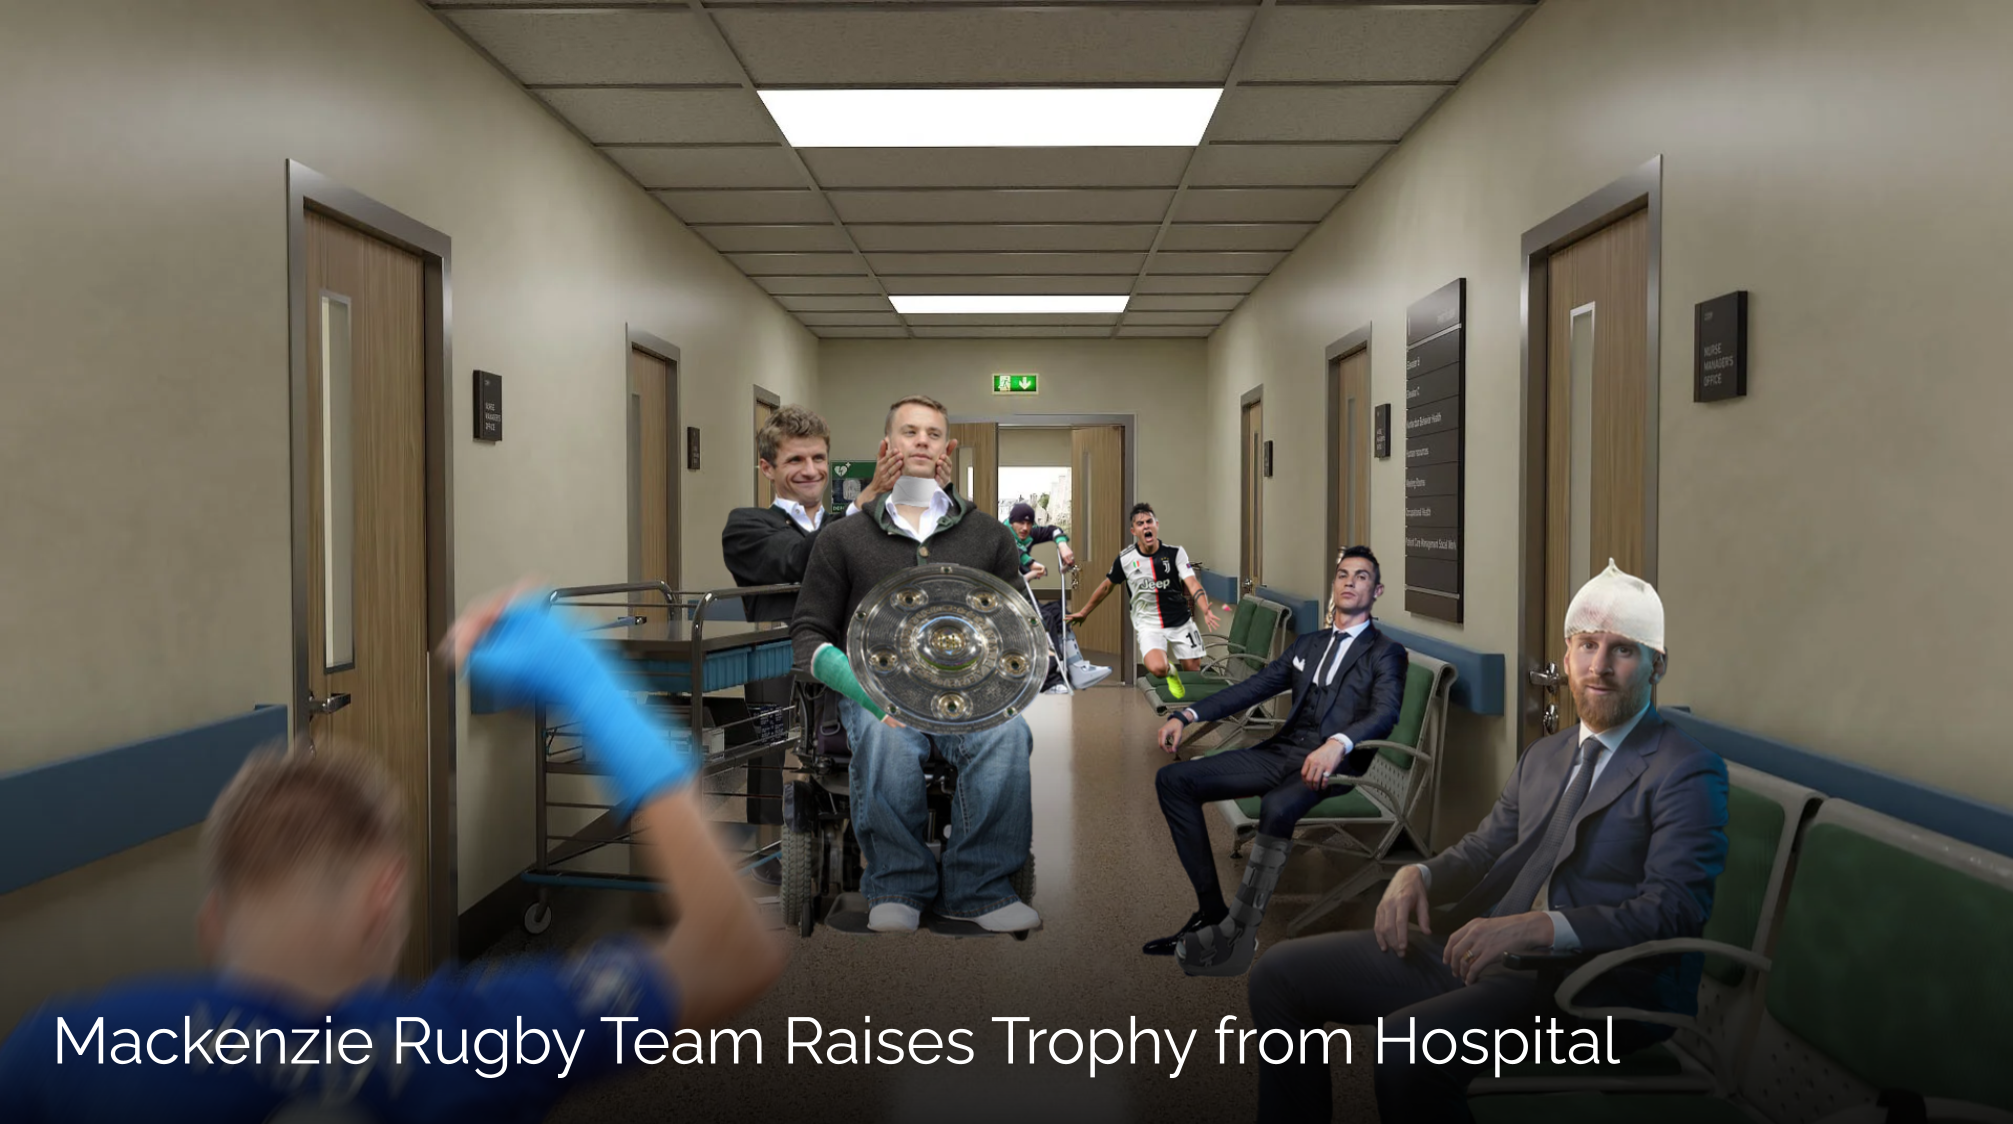
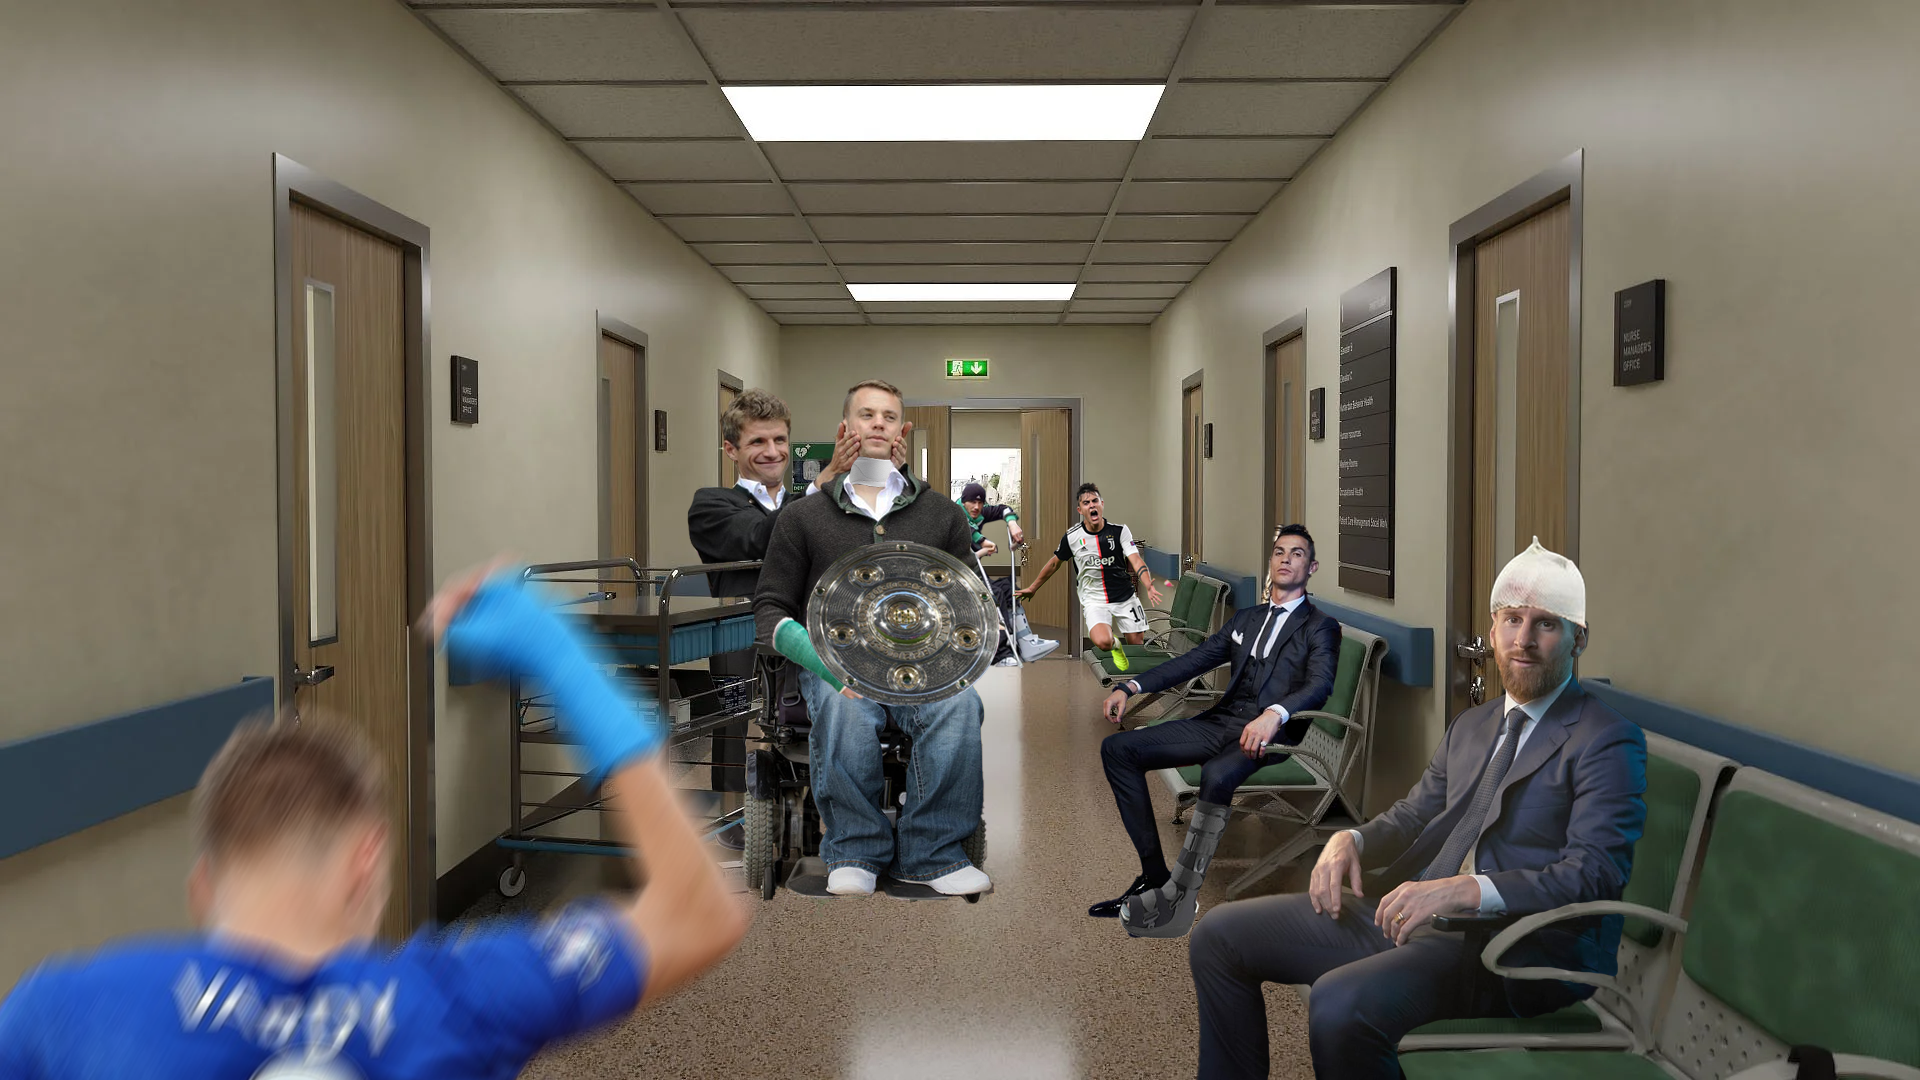
Fix carousel on mobile

diff --git a/_sass/carousel.scss b/_sass/carousel.scss
@@ -2,49 +2,57 @@
   margin: auto;
   position: relative;
 
-  &__prev, &__next {
+  &__prev,
+  &__next {
+    --size: 1rem;
     position: absolute;
     top: 50%;
     transform: translateY(-50%);
     border-radius: 50%;
-    width: 4rem;
-    height: 4rem;
+    width: calc(4 * var(--size));
+    height: calc(4 * var(--size));
     background-color: #193536;
     font-size: 0;
     display: flex;
     justify-content: center;
     align-items: center;
+    z-index: 2;
+
+    @media only screen and (max-width: 600px) {
+      --size: 0.5rem;
+    }
   }
 
   &__prev {
-    left: -2rem;
+    left: calc(-2 * var(--size));
 
     &::before {
       content: "";
       transform: translateX(-30%);
-      border-right: 1.5rem solid white;
-      border-left: 1.5rem solid transparent;
-      border-top: 1rem solid transparent;
-      border-bottom: 1rem solid transparent;
+      border-right: calc(1.5 * var(--size)) solid white;
+      border-left: calc(1.5 * var(--size)) solid transparent;
+      border-top: var(--size) solid transparent;
+      border-bottom: var(--size) solid transparent;
     }
   }
 
   &__next {
-    right: -2rem;
+    right: calc(-2 * var(--size));
 
     &::before {
       content: "";
       transform: translateX(30%);
-      border-left: 1.5rem solid white;
-      border-right: 1.5rem solid transparent;
-      border-top: 1rem solid transparent;
-      border-bottom: 1rem solid transparent;
+      border-left: calc(1.5 * var(--size)) solid white;
+      border-right: calc(1.5 * var(--size)) solid transparent;
+      border-top: var(--size) solid transparent;
+      border-bottom: var(--size) solid transparent;
     }
   }
 
   &__list {
     list-style: none;
     display: flex;
+    align-items: center;
     overflow: hidden;
     scroll-behavior: smooth;
     scroll-snap-type: x mandatory;
@@ -52,8 +60,31 @@
 
   &__slide {
     flex: 0 0 100%;
-    display: grid;
-    place-items: center;
     scroll-snap-align: center;
+    position: relative;
+    height: min-content;
+
+    img {
+      width: 100%;
+    }
+
+    p {
+      position: absolute;
+      bottom: 0;
+      left: 0;
+      font-size: 2em;
+      margin: 1.5rem;
+      padding: 0.25rem 0.5rem;
+      border-radius: 8px;
+      background-color: rgba(0, 0, 0, 0.7);
+
+      @media only screen and (max-width: 600px) {
+        font-size: 1em;
+        position: relative;
+        background: none;
+        margin: 0;
+        padding: 0;
+      }
+    }
   }
 }

diff --git a/_articles/2021/04/2021-04-09-month-in-pictures.md b/_articles/2021/04/2021-04-09-month-in-pictures.md
@@ -10,12 +10,15 @@ title: This Month in Pictures
     <ol class="carousel__list">
         <li id="slide1" class="carousel__slide">
             <img src="/assets/img/mip1.png">
+            <p>Mackenzie Holds Rally to Promote Social Distancing</p>
         </li>
         <li id="slide2" class="carousel__slide">
             <img src="/assets/img/mip2.png">
+            <p>Mackenzie's Portables Announce Planned Referendum on Independence from Central Building</p>
         </li>
         <li id="slide3" class="carousel__slide">
             <img src="/assets/img/mip3.png">
+            <p>Mackenzie Rugby Team Raises Trophy from Hospital</p>
         </li>
     </ol>
 </div>
